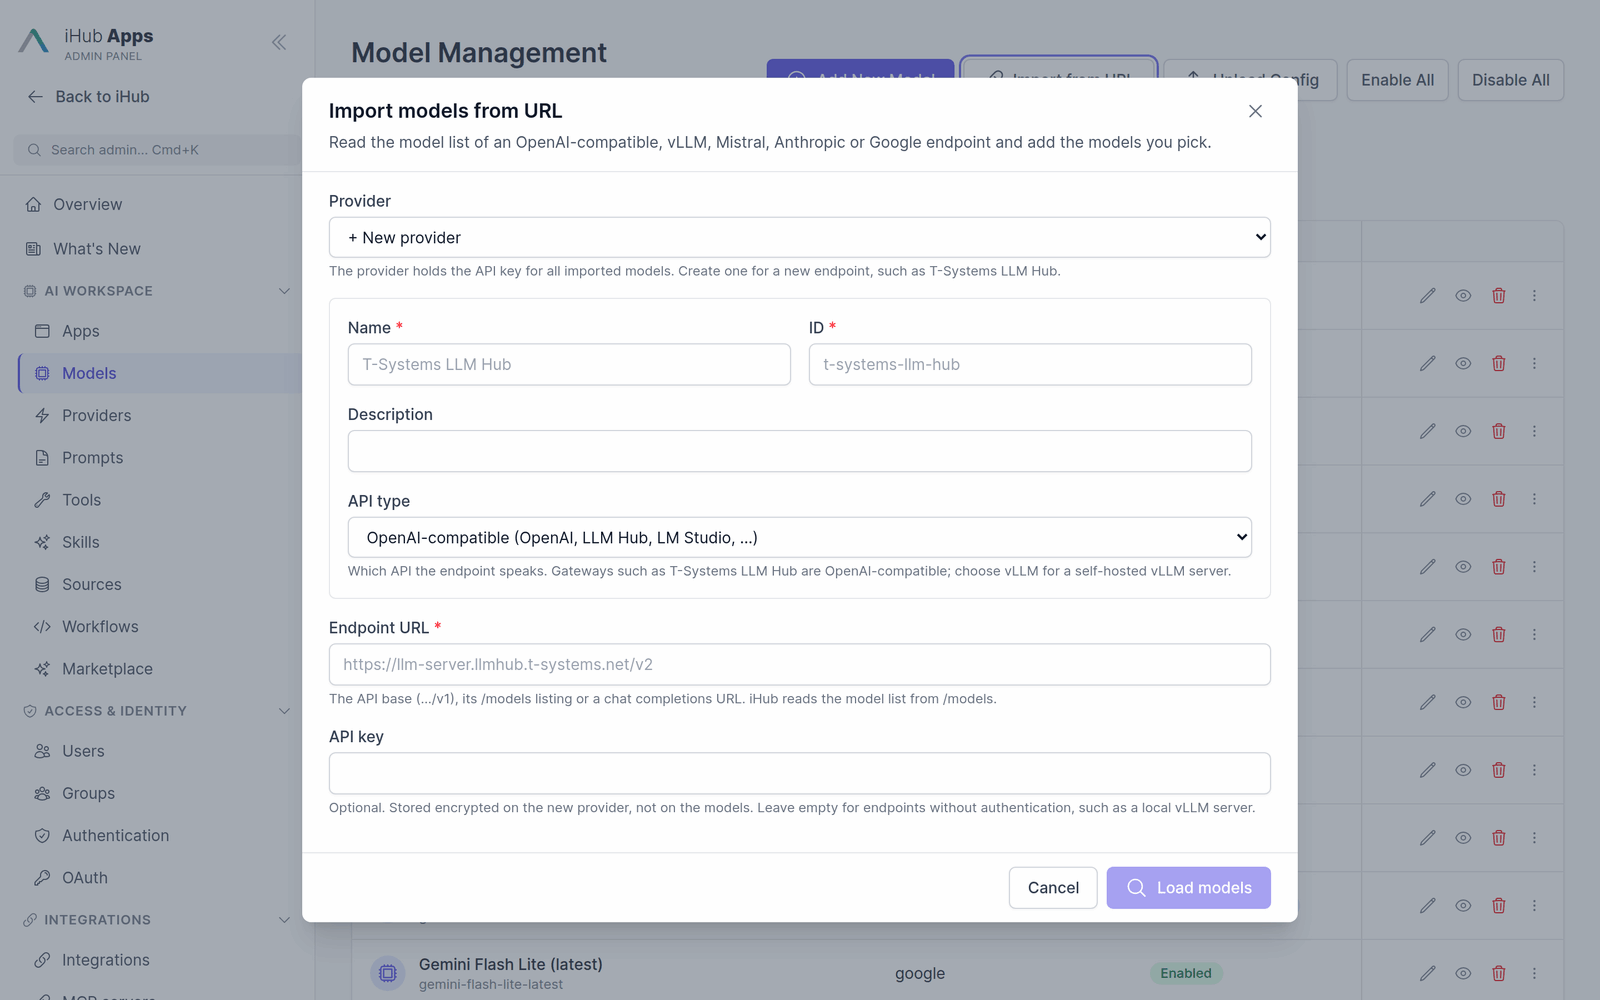
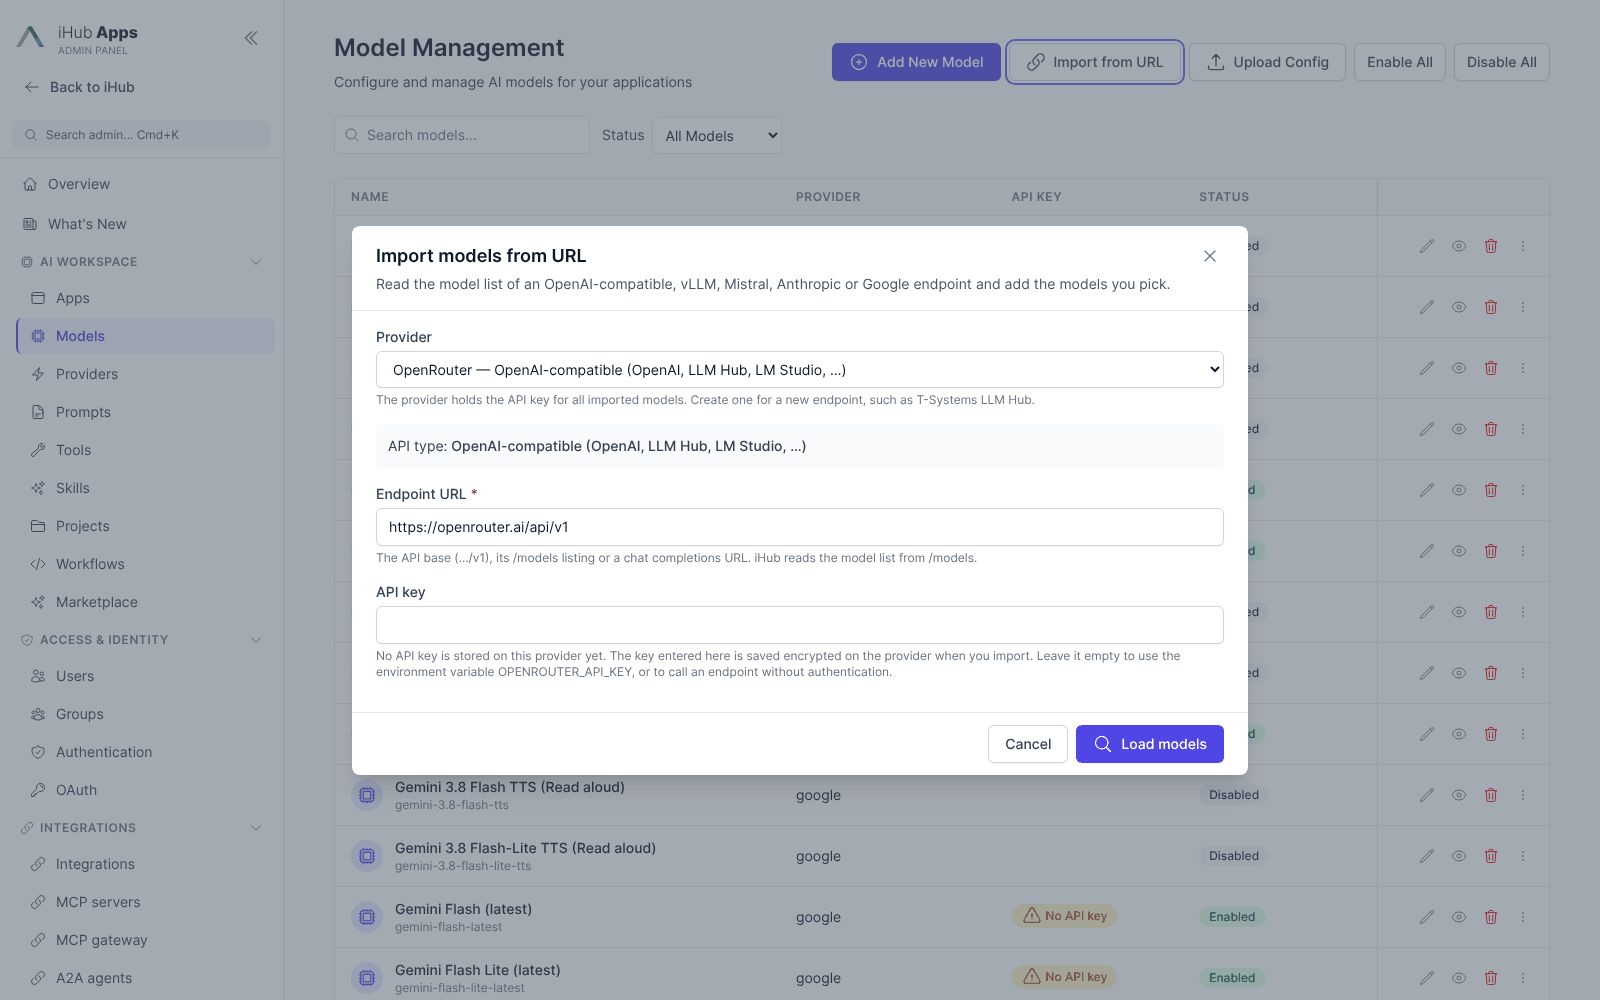
docs: screenshots for projects and the retaken pages of this release
New: Projects page, project page, a chat in a project, the Project
picker, the catalog, web page preview and site search, Admin → Projects
(list, new project form, view page), the app editor's Projects card and
Admin → Advanced → First-run onboarding.
Retaken: start page and chat input menu (Project button), admin
features (User Projects, Chat History), model import (OpenRouter) and
the scheduled-task form (run retention).

Release note: the site search defaults to 2 links and 50 pages.

Claude-Session: https://claude.ai/code/session_015qD8TsPqXNq3zxC7X2Z4MH

diff --git a/docs/projects.md b/docs/projects.md
@@ -121,6 +121,8 @@ every 15 minutes.
 
 ### Managing admin projects
 
+![Admin → Projects: every admin project with its items, who it is available to, category and tags](assets/screenshots/admin-projects.png)
+
 **Admin → Projects** lists every admin project with its number of items, who it is **Available to**,
 its category and tags and when it was last updated, with counts of all, enabled and disabled
 projects and of the user projects on the installation; filter by item kind and status. The page
@@ -138,6 +140,8 @@ and full admins may use it. Full administrators also find **Sharing of user proj
    Preview the stored text, edit the text of an uploaded, written or migrated document, rename,
    refresh or remove an item from the items table.
 4. Link the project to apps, workflows and agents.
+
+![The New project form: name, project ID filled in from the name, description, who can use the project, instructions](assets/screenshots/admin-project-new.png)
 
 **Who can use this project?** has three answers:
 
@@ -253,6 +257,8 @@ system prompt.
 
 ### Switching projects off for an app
 
+![The Projects card of the app editor: Use projects in this app, Allow personal projects and the linked admin projects](assets/screenshots/admin-app-projects.png)
+
 Two switches on an app decide what it does with projects. Both are on unless set to `false`, and
 both are under **Admin → Apps → Edit → Projects**:
 
@@ -273,6 +279,8 @@ switches can only narrow them. A workflow step's own project links are the workf
 affected.
 
 ### Checking a project
+
+![An admin project's view page: items, the apps and workflows that use it, and the settings rows with Availability](assets/screenshots/admin-project-view.png)
 
 - **Test** (`POST /api/admin/projects/:id/test`) reads every item the way a chat would, with your
   own credentials for iFinder items, and reports per item whether it was readable, its size and
@@ -401,6 +409,8 @@ available on this installation.
 
 ### The Projects page
 
+![The Projects page: own projects, projects shared with you and projects added from the catalog, with their badges](assets/screenshots/projects.png)
+
 **Projects** in the sidebar lists the projects you own, the projects shared with you, and those
 you added from the catalog. Projects that administrators created are listed only once you added
 one from the catalog (under **Shared with me**); the others are linked to apps and managed by
@@ -408,6 +418,8 @@ administrators, and no chat can start in one. Filter by all, mine or shared, sea
 instructions). The button shows how many projects you have against `maxProjectsPerUser`.
 
 A project page shows:
+
+![A project page: the chat input with the project's default app, the chats, the documents and the side panel](assets/screenshots/project-page.png)
 
 - **A chat input** at the top, the main action: the same input as the start page, with
   attachments, the model selector, tools, web search, magic prompt and dictation. Send a message to
@@ -442,6 +454,8 @@ your account; refresh the item later to take it again.
 
 ### Adding web pages
 
+![Add item → Web page (URL) with Preview: the text the model gets from the page](assets/screenshots/project-add-web-preview.png)
+
 The **Web page (URL)** tab (in user projects and in the admin project editor) adds one page or
 several pages of a website:
 
@@ -474,6 +488,8 @@ several pages of a website:
   - Tracking and session parameters (`utm_*`, `fbclid`, `gclid`, `jsessionid`, …) are dropped from
     the links, and at most three addresses that differ only in their query (`?page=2`, `?sort=…`)
     are listed per page, so a calendar or a paged list does not fill the list.
+
+![Find more pages of this website: the pages found on the site, ticked to be added as separate items](assets/screenshots/project-add-web-crawl.png)
 
 The search runs on the server with the same protections as the page reader: no private or internal
 addresses (unless the host is in `ssl.domainWhitelist`), every redirect checked, certificate checks
@@ -548,6 +564,8 @@ A project shared with everyone signed in shows **Global**; one in the catalog sh
 
 ### Global projects and the catalog
 
+![The project catalog: projects published by users and by the administrators, with Added and In your projects](assets/screenshots/projects-catalog.png)
+
 There are two ways to make a project available to everyone, so that a few people curate it and
 everyone else uses it:
 
@@ -591,6 +609,8 @@ never edit one.
 
 ### Chats in a project
 
+![A chat in a project: the answer names the project it was loaded from, and the chip beside the message box shows the project](assets/screenshots/project-chat.png)
+
 A chat started from the project page runs inside the project: it answers with the project's
 instructions and documents (mode `auto`), next to whatever the app itself links. A chat belongs to
 a project from its first message on: it is started from the project page. A chip beside the message
@@ -602,6 +622,8 @@ see [Chat Persistence](chat-persistence.md#temporary-chats-and-guests)) runs wit
 is not listed on its page, and it cannot be moved into a project.
 
 ### Using a project in any chat
+
+![The Project picker in the chat input: search, My projects, Shared with me and From the administrators](assets/screenshots/chat-project-picker.png)
 
 A chat does not have to start in a project to use one. **Project** in the message box (on the start
 page too) opens the project picker: a search field over your own projects, those shared with you

diff --git a/docs/admin-ui.md b/docs/admin-ui.md
@@ -192,7 +192,7 @@ Models define which AI providers and specific model versions are available on yo
 
 **Import from URL** reads an endpoint's model list — OpenAI, vLLM, LM Studio, LLM Hub and other OpenAI-compatible servers, Mistral, Anthropic or Google — and creates the models you pick. It asks which provider the models belong to and can create a new provider with its API key on the spot. See [Models → Importing Models from an Endpoint](models.md#importing-models-from-an-endpoint).
 
-![Import models from URL](assets/screenshots/admin-models-import.png)
+![Import models from URL with the OpenRouter provider and its API key field](assets/screenshots/admin-models-import.png)
 
 **Testing a model:** Use the **Test** button on the model list page to verify connectivity and authentication.
 
@@ -267,6 +267,8 @@ project, decide **Who can use this project?**, add items, check the token estima
 model budgets, and move, copy or merge projects. Projects replace the former **Sources** page.
 The page needs the `projects` feature and the `admin.pages.projects` switch. User projects —
 projects users create themselves — are a separate preview feature (**User Projects**).
+
+![Admin → Projects](assets/screenshots/admin-projects.png)
 
 See [Projects](projects.md).
 

diff --git a/docs/releases/next/features.md b/docs/releases/next/features.md
@@ -88,8 +88,8 @@ The **Web page (URL)** tab of **Add item** / **Add documents** has two new helpe
 - **Preview** shows the text the model will get from a page before you add it. A page that needs
   JavaScript or blocks automated access shows up as empty or short text.
 - **Find more pages of this website** follows the page's links within the same website (by default
-  within the start page's section, up to 3 links deep and 200 pages) and lists what it finds with
-  titles. Filter, tick pages or **Select all**, and **Add N pages** adds each one as its own item.
+  within the start page's section, 2 links deep and up to 50 pages; at most 3 links and 200 pages)
+  and lists what it finds with titles. Filter, tick pages or **Select all**, and **Add N pages** adds each one as its own item.
   Pages already in the project are marked. The search respects the website's `robots.txt`, skips
   tracking parameters and endless page lists, and stops after 25 seconds with what it has found.
 

diff --git a/docs/models.md b/docs/models.md
@@ -245,7 +245,7 @@ the OpenAI API is never sent the OpenAI key.
 **Admin → Models → Import from URL** reads the model list of an endpoint and creates the models
 you pick, so they need not be typed in one by one.
 
-![Import models from URL with a new provider](assets/screenshots/admin-models-import.png)
+![Import models from URL with the OpenRouter provider and its API key field](assets/screenshots/admin-models-import.png)
 
 1. Choose the provider the models belong to, or **+ New provider** to create one with a name, ID,
    API type and API key. The key is stored on the provider, not on the models. Opening **Import

diff --git a/docs/marketplace.md b/docs/marketplace.md
@@ -14,7 +14,7 @@ The marketplace is a **preview** feature and is off by default. Switch it on und
 **Admin → Platform → Features → Marketplace** (`features.marketplace` in `contents/config/features.json`).
 The **Marketplace** entry then appears in the admin sidebar under **AI Workspace**.
 
-![Admin features page with the preview features Marketplace, Durable Chats and Scheduled Tasks](assets/screenshots/admin-features.png)
+![Admin features page with the preview features Marketplace, User Projects, Chat History and Scheduled Tasks](assets/screenshots/admin-features.png)
 
 ## Shipped registries
 

diff --git a/docs/user-guide.md b/docs/user-guide.md
@@ -161,6 +161,8 @@ a project's page answers from its documents and follows its instructions; the **
 the chat input attaches a project to any other chat. Administrators also offer projects for
 everyone in the catalog (**Projects → Browse catalog**). See [Projects](projects.md#user-projects).
 
+![A project page with its chat input, chats and documents](assets/screenshots/project-page.png)
+
 ## Transcription and voice
 
 Transcription models appear in the chat's model selector next to the chat models. With one

diff --git a/docs/GETTING_STARTED.md b/docs/GETTING_STARTED.md
@@ -64,6 +64,8 @@ is under **Admin → Advanced → First-run onboarding** (`setup.disabled` in `p
 the demo-account status. With it on, nobody is redirected to `/setup`; the page stays reachable by
 direct URL.
 
+![Admin → Advanced → First-run onboarding, with the demo-account warning](assets/screenshots/admin-onboarding.png)
+
 ## 3. Look around
 
 ![The start page after setup](assets/screenshots/start-page.png)
